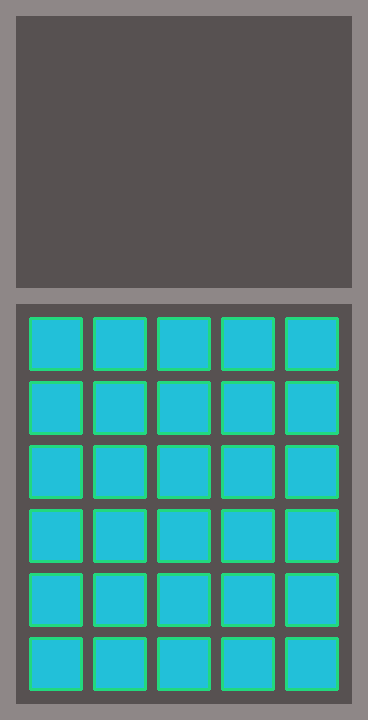
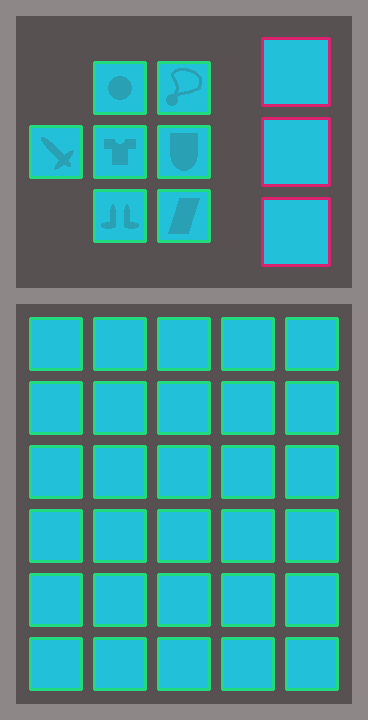
Added basic inventory and player stats

Changed region(s): [[0.0598, 0.0611, 0.5978, 0.3361], [0.6875, 0.0306, 0.8967, 0.3972]]

diff --git a/src/engine/sprite/sprite.cpp b/src/engine/sprite/sprite.cpp
@@ -7,8 +7,8 @@
 
 Sprite::Sprite(const char* name) // NOLINT(cppcoreguidelines-pro-type-member-init)
 {
-	this->renderer = App::get().renderer.get();
-	this->texture = makeTexture(IMG_LoadTexture(renderer, App::getAssetPath(name)));
+	this->renderer = App::get().renderer;
+	this->texture = makeTexture(IMG_LoadTexture(renderer.get(), App::getAssetPath(name)));
 	if (!texture)
 	{
 		Logger::logErrorImg("Failed to load texture: %s", name);
@@ -20,7 +20,7 @@ Sprite::Sprite(const char* name) // NOLINT(cppcoreguidelines-pro-type-member-ini
 void Sprite::draw(const int x, const int y, const double scale)
 {
 	SDL_Rect dstRect = {x, y, getScaledWidth(scale), getScaledHeight(scale)};
-	SDL_RenderCopy(renderer, texture.get(), nullptr, &dstRect);
+	SDL_RenderCopy(renderer.get(), texture.get(), nullptr, &dstRect);
 }
 
 void Sprite::setState(int state) {}

diff --git a/src/game/game_state/inventory_view.cpp b/src/game/game_state/inventory_view.cpp
@@ -1,0 +1,23 @@
+#include "inventory_view.h"
+
+#include <utility>
+
+InventoryView::InventoryView(std::shared_ptr<Inventory> inventory, const std::shared_ptr<Camera>& camera)
+		: GameObject(nullptr, camera), inventory(std::move(inventory)) {}
+
+void InventoryView::draw() const
+{
+	std::size_t i = 0;
+	for (const auto& slot : inventory->inventorySlots)
+	{
+		if (i++ == inventory->cursorIndex)
+			continue;
+		slot->item->sprite->draw(x + slot->offsetX, y + slot->offsetY, camera->getScale());
+	}
+	int mouseX, mouseY;
+	SDL_GetMouseState(&mouseX, &mouseY);
+	auto sprite = inventory->inventorySlots[inventory->cursorIndex]->item->sprite;
+	int width = sprite->getScaledWidth(camera->getScale());
+	int height = sprite->getScaledHeight(camera->getScale());
+	sprite->draw(mouseX - width / 2, mouseY - height / 2, camera->getScale());
+}

diff --git a/src/engine/sprite/animated_state_sprite.cpp b/src/engine/sprite/animated_state_sprite.cpp
@@ -1,6 +1,7 @@
 #include "animated_state_sprite.h"
 
-AnimatedStateSprite::AnimatedStateSprite(const char* name, const int frameCount, const int delay, const int stateCount) : Sprite(name)
+AnimatedStateSprite::AnimatedStateSprite(const char* name, const int frameCount, const int delay, const int stateCount)
+		: Sprite(name)
 {
 	this->frameCount = frameCount;
 	this->delay = delay;
@@ -17,7 +18,7 @@ void AnimatedStateSprite::draw(int x, int y, const double scale)
 {
 	SDL_Rect dstRect = {x, y, getScaledWidth(scale), getScaledHeight(scale)};
 	int clipIndex = currentState * frameCount + currentFrame;
-	SDL_RenderCopy(renderer, texture.get(), &clips[clipIndex], &dstRect);
+	SDL_RenderCopy(renderer.get(), texture.get(), &clips[clipIndex], &dstRect);
 	if (--currentDelay == 0)
 	{
 		currentFrame = (currentFrame + 1) % frameCount;

diff --git a/src/engine/sprite/blank_sprite.h b/src/engine/sprite/blank_sprite.h
@@ -1,0 +1,26 @@
+#pragma once
+
+#include <SDL_image.h>
+#include "sprite.h"
+#include "../app/app.h"
+
+class BlankSprite : public Sprite
+{
+public:
+	BlankSprite()
+	{
+		// TODO: remove function
+		this->renderer = App::get().renderer;
+		this->texture = makeTexture(IMG_LoadTexture(renderer.get(), App::getAssetPath("test_item")));
+		if (!texture)
+			throw std::runtime_error("Failed to load texture test_item");
+		SDL_QueryTexture(texture.get(), nullptr, nullptr, &this->width, &this->height);
+	}
+
+	void draw(int x, int y, double scale) override
+	{
+		// TODO: remove function content
+		SDL_Rect dstRect = {x, y, getScaledWidth(scale), getScaledHeight(scale)};
+		SDL_RenderCopy(renderer.get(), texture.get(), nullptr, &dstRect);
+	}
+};

diff --git a/src/game/scene_game_map/scene_game_map.cpp b/src/game/scene_game_map/scene_game_map.cpp
@@ -1,7 +1,7 @@
 #include "scene_game_map.h"
 
 #include <utility>
-#include "../../engine/app/app.h"
+#include "../game_state/inventory_view.h"
 
 SceneGameMap::SceneGameMap(std::shared_ptr<GameState> gameState) : Scene()
 {
@@ -19,6 +19,10 @@ SceneGameMap::SceneGameMap(std::shared_ptr<GameState> gameState) : Scene()
 	auto testEntity8 = createMapObject("wall", 23, 23);
 
 	auto uiTestEntity = createUIObject("ui_equipment_bg", 912, 0);
+
+	auto inventoryView = std::make_shared<InventoryView>(this->gameState->inventory, uiCamera);
+	inventoryView->move(912, 0);
+	renderables.push_back(inventoryView);
 }
 
 void SceneGameMap::customEvents(SDL_Event event)

diff --git a/src/game/game_state/player_stats.h b/src/game/game_state/player_stats.h
@@ -1,0 +1,24 @@
+#pragma once
+
+class PlayerStats
+{
+public:
+	[[nodiscard]] int getHP() const;
+	[[nodiscard]] int getMana() const;
+	[[nodiscard]] int getWhiteAttack() const;
+	[[nodiscard]] int getBlackAttack() const;
+	[[nodiscard]] int getWhiteDefense() const;
+	[[nodiscard]] int getBlackDefense() const;
+	[[nodiscard]] int getCritChance() const;
+	[[nodiscard]] int getAgility() const;
+
+private:
+	int hp = 100;
+	int mana = 50;
+	int whiteAttack = 50;
+	int blackAttack = 50;
+	int whiteDefense = 50;
+	int blackDefense = 50;
+	int critChance = 2;
+	int agility = 1;
+};

diff --git a/src/game/game_state/player_stats.cpp b/src/game/game_state/player_stats.cpp
@@ -1,0 +1,41 @@
+#include "player_stats.h"
+
+int PlayerStats::getHP() const
+{
+	return hp;
+}
+
+int PlayerStats::getMana() const
+{
+	return mana;
+}
+
+int PlayerStats::getWhiteAttack() const
+{
+	return whiteAttack;
+}
+
+int PlayerStats::getBlackAttack() const
+{
+	return blackAttack;
+}
+
+int PlayerStats::getWhiteDefense() const
+{
+	return whiteDefense;
+}
+
+int PlayerStats::getBlackDefense() const
+{
+	return blackDefense;
+}
+
+int PlayerStats::getCritChance() const
+{
+	return critChance;
+}
+
+int PlayerStats::getAgility() const
+{
+	return agility;
+}

diff --git a/src/game/loaders/sprite_loader.cpp b/src/game/loaders/sprite_loader.cpp
@@ -1,4 +1,5 @@
 #include "sprite_loader.h"
+#include "../../engine/sprite/blank_sprite.h"
 #include "../../engine/sprite/animated_sprite.h"
 #include "../../engine/sprite/state_sprite.h"
 #include "../../engine/sprite/animated_state_sprite.h"
@@ -6,6 +7,8 @@
 std::map<std::string, std::shared_ptr<Sprite>> SpriteLoader::getSprites()
 {
 	std::map<std::string, std::shared_ptr<Sprite>> sprites;
+
+	sprites.emplace("blank", std::make_shared<BlankSprite>());
 
 	// Main menu
 	sprites.emplace("play_button", std::make_shared<Sprite>("play_button"));

diff --git a/src/game/game_state/inventory.cpp b/src/game/game_state/inventory.cpp
@@ -1,0 +1,20 @@
+#include "inventory.h"
+
+Inventory::Inventory()
+{
+	for (int i = 0; i < inventorySize; i++)
+		inventorySlots.emplace_back(std::make_shared<InventorySlot>());
+
+	for (int i = 0; i < 30; i++)
+	{
+		inventorySlots[i]->offsetX = 32 + (i % 5) * 64;
+		inventorySlots[i]->offsetY = 320 + (i / 5) * 64;
+	}
+	inventorySlots[30]->offsetX = 32;
+	inventorySlots[30]->offsetY = 128;
+	for (int i = 0; i < 6; i++)
+	{
+		inventorySlots[i + 31]->offsetX = 96 + (i / 3) * 64;
+		inventorySlots[i + 31]->offsetY = 64 + (i % 3) * 64;
+	}
+}

diff --git a/src/game/game_state/inventory.h b/src/game/game_state/inventory.h
@@ -1,0 +1,25 @@
+#pragma once
+
+#include <vector>
+#include "../../engine/game_object/game_object.h"
+#include "inventory_slot.h"
+
+class Inventory
+{
+public:
+	// 0-29: main inventory
+	// 30: weapon
+	// 31: helmet
+	// 32: body armor
+	// 33: boots
+	// 34: trinket
+	// 35: shield
+	// 36: book
+	// 37: cursor
+	static constexpr int inventorySize = 38;
+	static constexpr int cursorIndex = 37;
+
+	Inventory();
+
+	std::vector<std::shared_ptr<InventorySlot>> inventorySlots;
+};

diff --git a/src/engine/sprite/animated_sprite.cpp b/src/engine/sprite/animated_sprite.cpp
@@ -13,7 +13,7 @@ AnimatedSprite::AnimatedSprite(const char* name, const int frameCount, const int
 void AnimatedSprite::draw(int x, int y, const double scale)
 {
 	SDL_Rect dstRect = {x, y, getScaledWidth(scale), getScaledHeight(scale)};
-	SDL_RenderCopy(renderer, texture.get(), &clips[currentFrame], &dstRect);
+	SDL_RenderCopy(renderer.get(), texture.get(), &clips[currentFrame], &dstRect);
 	if (--currentDelay == 0)
 	{
 		currentFrame = (currentFrame + 1) % frameCount;

diff --git a/src/engine/sprite/state_sprite.cpp b/src/engine/sprite/state_sprite.cpp
@@ -11,7 +11,7 @@ StateSprite::StateSprite(const char* name, const int stateCount) : Sprite(name)
 void StateSprite::draw(int x, int y, const double scale)
 {
 	SDL_Rect dstRect = {x, y, getScaledWidth(scale), getScaledHeight(scale)};
-	SDL_RenderCopy(renderer, texture.get(), &clips[currentState], &dstRect);
+	SDL_RenderCopy(renderer.get(), texture.get(), &clips[currentState], &dstRect);
 }
 
 void StateSprite::setState(int state)
